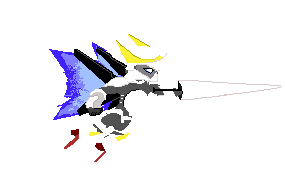
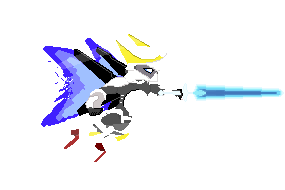
changement dash morts et patitata

diff --git a/src/Tableau1.js b/src/Tableau1.js
@@ -27,7 +27,7 @@ class Tableau1 extends Phaser.Scene {
         for (let i = 1; i <= 24; i++) {
             this.load.image('laser' + i, 'assets/animation/laser/laser' + i + '.png');
         }
-        for (let i = 1; i <= 4; i++) {
+        for (let i = 1; i <= 2; i++) {
             this.load.image('dash' + i, 'assets/animation/dash/dash' + i + '.png');
         }
         for (let i = 1; i <= 7; i++) {
@@ -198,7 +198,7 @@ class Tableau1 extends Phaser.Scene {
 
 
         // Création du personnage de base
-        this.player = this.physics.add.sprite(-1800 , 2200, 'player1').setOrigin(0, 0); ///750  -2900
+        this.player = this.physics.add.sprite(800 , -1200, 'player1').setOrigin(0, 0); ///750  -2900
         this.player.setDisplaySize(64, 64);
         this.player.body.setAllowGravity(true);
         this.player.setVisible(true);
@@ -227,12 +227,14 @@ class Tableau1 extends Phaser.Scene {
         this.engrenage2 = this.add.sprite(418.17, -1150.50, 'engrenage').setOrigin(0, 0).setDisplaySize(29  ,29);
         this.engrenage3 = this.add.sprite(1150.50, -1727, 'engrenage').setOrigin(0, 0).setDisplaySize(32  ,32);
         this.boss = this.add.sprite(800, -5248, 'boss').setOrigin(0, 0);
-        this.ennemi = this.physics.add.sprite(-767, 2220, 'ennemi').setOrigin(0, 0);
-        this.ennemi.setBodySize(150,150)
+        this.ennemi = this.physics.add.sprite(-767, 2220, 'ennemi').setOrigin(0, 0).setBodySize(100,200);
+        //this.ennemi.setSize(150,150)
 
 
 
-        this.ennemi1 = this.physics.add.sprite(1230, -1950, 'ennemi').setOrigin(0, 0);
+
+
+        this.ennemi1 = this.physics.add.sprite(1230, -1950, 'ennemi').setOrigin(0, 0).setBodySize(150,150);
         var tween = this.tweens.add({
             targets: this.ennemi1,
             x: 600,
@@ -248,7 +250,7 @@ class Tableau1 extends Phaser.Scene {
         });
 
 
-        this.ennemi2 = this.physics.add.sprite(200, -2320, 'ennemi').setOrigin(0, 0).setFlipX(true);
+        this.ennemi2 = this.physics.add.sprite(200, -2320, 'ennemi').setOrigin(0, 0).setFlipX(true).setBodySize(150,150);
         var tween = this.tweens.add({
             targets: this.ennemi2,
             x: 600,
@@ -339,10 +341,8 @@ class Tableau1 extends Phaser.Scene {
             frames: [
                 {key: 'dash1'},
                 {key: 'dash2'},
-                {key: 'dash3'},
-                {key: 'dash4'},
             ],
-            frameRate: 4,
+            frameRate: 2,
         });
         this.anims.create({
             key: 'death',
@@ -470,7 +470,7 @@ class Tableau1 extends Phaser.Scene {
                 {key: 'laser23'},
                 {key: 'laser24'},
             ],
-            frameRate: 24,
+            frameRate: 12,
 
         });
 
@@ -478,7 +478,10 @@ class Tableau1 extends Phaser.Scene {
 
         // Creation des collision
         this.physics.add.collider(this.player, this.collidersMur);
+        this.physics.add.collider(this.player, this.collidersMur);
         this.physics.add.collider(this.ennemi, this.collidersMur);
+        this.physics.add.collider(this.ennemi1, this.speciales);
+        this.physics.add.collider(this.ennemi2, this.speciales);
         this.physics.add.collider(this.player, this.spikecolliders,function()
         {
             me.respawn();
@@ -489,6 +492,38 @@ class Tableau1 extends Phaser.Scene {
             if (me.player.texture.key === "dash1"){
                 me.ennemi.disableBody()
                 me.ennemi.setVisible(false)
+
+            }
+            else{
+                me.respawn()
+            }
+
+        });
+
+        this.physics.add.overlap(this.player, this.laser2,function()
+        {
+            console.log("touché")
+
+        });
+
+        this.physics.add.overlap(this.player, this.ennemi1,function()
+        {
+            if (me.player.texture.key === "dash1"){
+                me.ennemi1.disableBody()
+                me.ennemi1.setVisible(false)
+
+            }
+            else{
+                me.respawn()
+            }
+
+        });
+
+        this.physics.add.overlap(this.player, this.ennemi2,function()
+        {
+            if (me.player.texture.key === "dash1"){
+                me.ennemi2.disableBody()
+                me.ennemi2.setVisible(false)
 
             }
             else{
@@ -594,7 +629,9 @@ class Tableau1 extends Phaser.Scene {
                         this.laser1 = this.physics.add.sprite(x, y - 200, 'laser24').setOrigin(0, 0);
                         this.laser1.body.setAllowGravity(false);
                         this.laser1.setVisible(true);
+
                         this.time.addEvent({
+
                             delay: 5000,
                             callback: ()=>{
                                 this.laser1.play("laser")
@@ -643,6 +680,10 @@ class Tableau1 extends Phaser.Scene {
         this.player.setPosition(this.checkpointX,this.checkpointY);
         this.ennemi.enableBody()
         this.ennemi.setVisible(true)
+        this.ennemi1.enableBody()
+        this.ennemi1.setVisible(true)
+        this.ennemi2.enableBody()
+        this.ennemi2.setVisible(true)
     }
 
 
@@ -671,6 +712,7 @@ class Tableau1 extends Phaser.Scene {
 
                 default:
                     me.player.play('player')
+                    me.player.stop("dash")
                     break;
             }
         })
@@ -732,6 +774,9 @@ class Tableau1 extends Phaser.Scene {
     update(){
 
 
+
+
+
         // this.player.x = this.laser1.x
         // this.player.y = this.laser1.y - 100
 
@@ -744,6 +789,19 @@ class Tableau1 extends Phaser.Scene {
 
        let me = this
 
+        if (this.physics.overlap(this.player,this.laser1)){
+            if (this.laser1.texture.key === "laser10" || this.laser1.texture.key === "laser11" || this.laser1.texture.key === "laser12" || this.laser1.texture.key === "laser13" || this.laser1.texture.key === "laser14" ){
+                me.respawn();
+
+            }
+        }
+
+        if (this.physics.overlap(this.player,this.laser2)){
+            if (this.laser2.texture.key === "laser10" || this.laser2.texture.key === "laser11" || this.laser2.texture.key === "laser12" || this.laser2.texture.key === "laser13" || this.laser2.texture.key === "laser14" ){
+                me.respawn();
+
+            }
+        }
        // me.cameras.main.startFollow(me.player.player, true, 0, 0,0,0).setDeadzone(undefined,0);
 
             if(this.player.body.velocity < 0)
@@ -757,6 +815,8 @@ class Tableau1 extends Phaser.Scene {
             for (var i = 0; i<this.speciales.getChildren().length;i++)
             {
                 this.speciales.getChildren()[i].body.enable = true;
+                this.ennemi1.body.setAllowGravity(true);
+                this.ennemi2.body.setAllowGravity(true);
             }
         }
         else
@@ -765,6 +825,8 @@ class Tableau1 extends Phaser.Scene {
             for (var i = 0 ; i < this.speciales.getChildren().length ;i++)
             {
                 this.speciales.getChildren()[i].body.enable = false;
+                this.ennemi1.body.setAllowGravity(false);
+                this.ennemi2.body.setAllowGravity(false);
             }
         }
 
@@ -787,7 +849,7 @@ class Tableau1 extends Phaser.Scene {
                 this.dash.play();
                 this.flag = true;
             }
-            this.player.setVelocityX(-4000 * this.speed.speedDash);
+            this.player.setVelocityX(-1500 * this.speed.speedDash);
             console.log(this.speed.speedDash);
         }
 

diff --git a/src/intro.js b/src/intro.js
@@ -8,6 +8,7 @@ class intro extends Phaser.Scene{
         this.load.image("bouton1", "assets/menu/bouton1.png");
         this.load.image("bouton2", "assets/menu/bouton2.png");
         this.load.image("menu", "assets/menu/menu.png");
+        this.load.image("particles", "assets/menu/particles.png");
 
     }
 
@@ -31,6 +32,36 @@ class intro extends Phaser.Scene{
             this.scene.start("mainGame")
 
         })
+
+        this.part = this.add.particles('particles');
+
+        this.emitter = this.part.createEmitter({
+            x: { min: -800, max: 1000 },
+            y: { min: 800, max: 800 },
+            lifespan: { min: 500, max: 4000},
+            speedY: { min: -50, max: -10 },
+            scale: { start: 0.1, end: 0 },
+            quantity: { min: 0.9, max: 0.5 },
+            blendMode: 'ADD'
+
+        });
+        this.emitter.start(0,0);
+
+        this.particles = this.add.particles('particles');
+
+        this.particles.createEmitter({
+            // frame: 'particles',
+            radial: false,
+            x: 100,
+            y: { start: 0, end: 560, steps: 256 },
+            lifespan: 2000,
+            speedX: { min: 200, max: 400 },
+            quantity: 4,
+            gravityY: -50,
+            scale: { start: 0.6, end: 0},
+            blendMode: 'ADD'
+        });
+
 
     }
 
